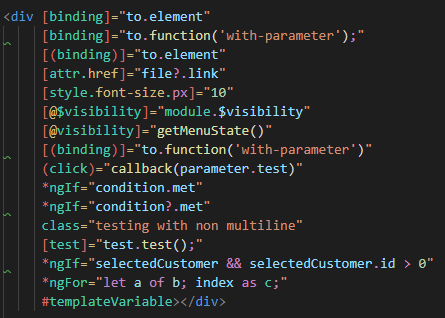
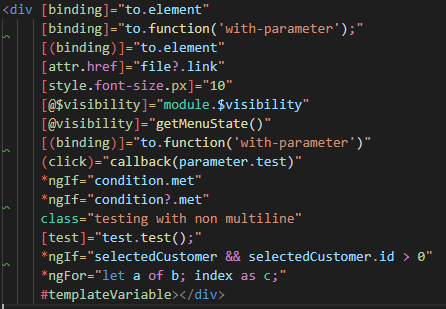
Differentiation between angular directives (ngFor, ngIf, bindings) and html attributes, fixed issue with let, Switched angular directive unit scope with directive attribute name for better highlighting.

Changed region(s): [[0.0, 0.0, 0.964, 1.0]]

diff --git a/test/test.component.html b/test/test.component.html
@@ -171,6 +171,9 @@ ANGULAR DIRECTIVES
 
 <div [binding]="to.element"
      [binding]="to.function('with-parameter');"
+     (click)="to.function(with?.parameter)"
+     (click)="to.function(with.parameter)"
+     (click)="to.function(with!.parameter)"
      [(binding)]="to.element"
      [attr.href]="file?.link"
      [style.font-size.px]="10"
@@ -180,6 +183,7 @@ ANGULAR DIRECTIVES
      (click)="callback(parameter.test)"
      *ngIf="condition.met"
      *ngIf="condition?.met"
+     [ngClass]="{'test': sdsdasda}"
      class="testing with non multiline"
      [test]="test.test();"
      *ngIf="selectedCustomer && selectedCustomer.id > 0"

diff --git a/CHANGELOG.md b/CHANGELOG.md
@@ -1,6 +1,12 @@
 # Change Log
 
-# 0.0.30 (18/11/2018)
+# 0.0.31 (19/11/2018)
+
+- Differentiation between angular directives (ngFor, ngIf, bindings) and html attributes. [Agree? Disagree? Vote here](https://github.com/ghaschel/vscode-angular-html/issues/12#issuecomment-439883428)
+- Fixed issue with `let`
+- Switched angular directive unit scope with directive attribute name for better highlighting.
+
+# 0.0.30 (_18/11/2018_)
 
 - Improved generic attribute pattern
 

diff --git a/README.md b/README.md
@@ -106,7 +106,6 @@ This plugin adds syntax highlighting for angular HTML template files in VS Code.
 
 <img src="https://raw.githubusercontent.com/ghaschel/vscode-angular-html/master/assets/generic-attributes.png" title="Generic attributes" alt="Generic attributes" />
 
-
 ## Disclaimer
 
 > The development of this plugin serves as a way for me to train Regex, so may not be 100% correct. Feel free to submit a pull request if needed.
